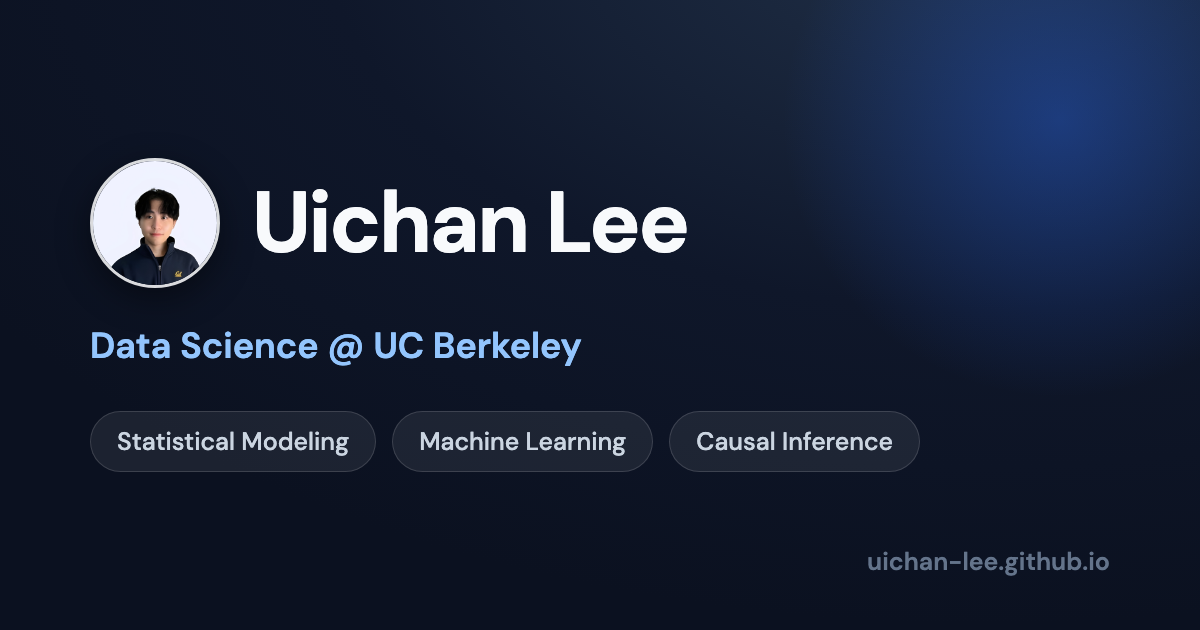
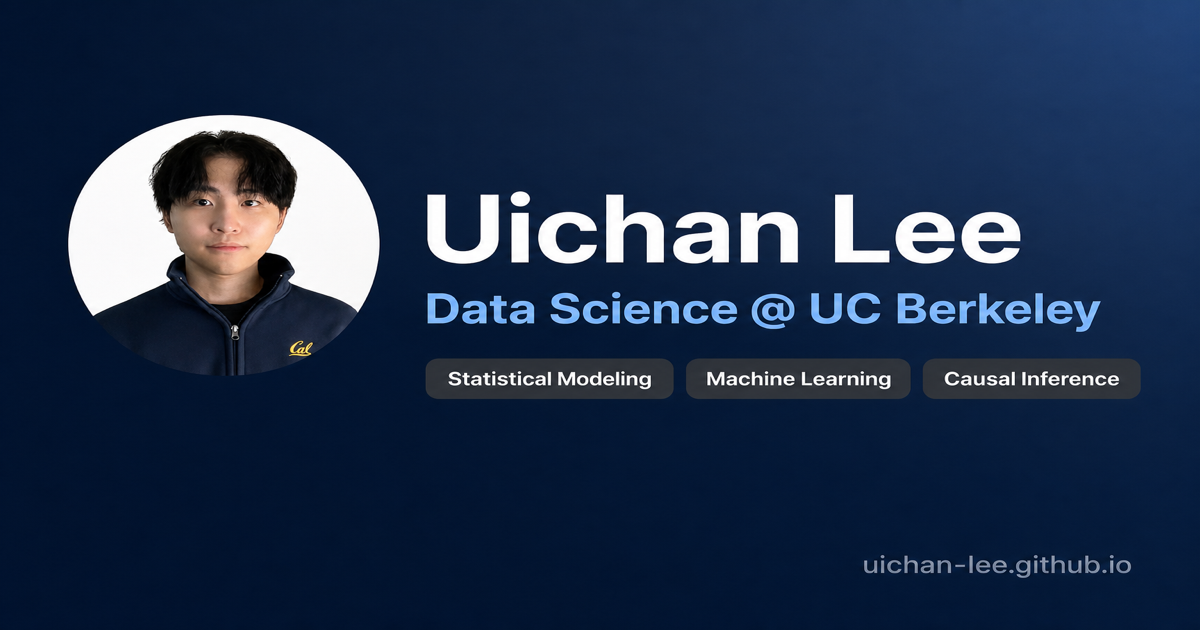
sync posts

Changed region(s): [[0.0308, 0.181, 1.0, 1.0], [0.9558, 0.0, 1.0, 0.0905], [0.8325, 0.1508, 0.925, 0.2413]]

diff --git a/js/experiences.js b/js/experiences.js
@@ -4,7 +4,7 @@ const experiences = [
     title: "NAND Flash Memory Product Engineer Intern",
     org: "Samsung Electronics DS Division",
     period: "Jun 2026 – Jul 2026",
-    location: "South Korea",
+    location: "Hwaseong, South Korea",
     bullets: [
       "Details to be updated.",
     ],
@@ -25,10 +25,10 @@ const experiences = [
     type: "education",
     title: "Bachelor of Arts, Data Science",
     org: "University of California, Berkeley",
-    period: "Expected May 2027",
+    period: "Expected Dec 2026 (early grduation)",
     location: "Berkeley, CA",
     bullets: [
-      "College of Computing, Data Science & Society. Cumulative GPA: 4.00 / 4.00.",
+      "College of Computing, Data Science & Society.",
       "Dean's List, College of CDSS.",
     ],
   },
